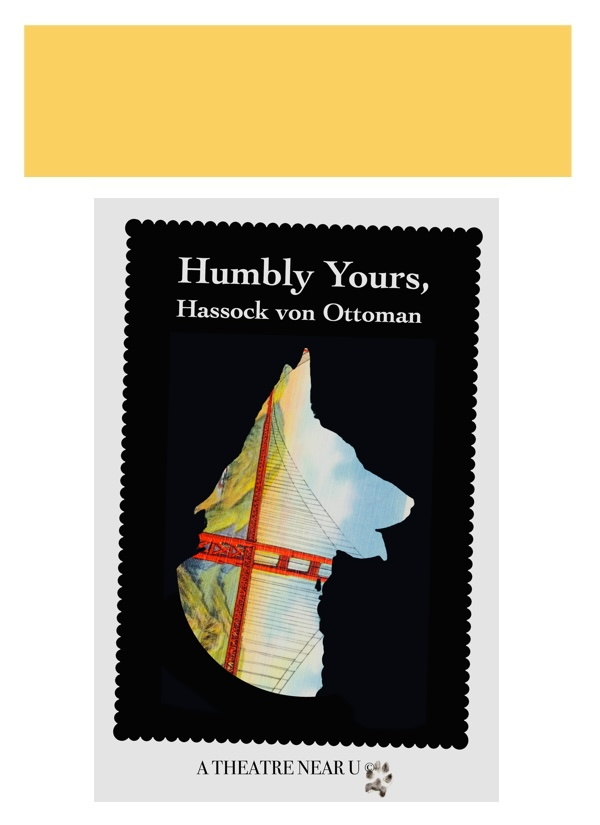
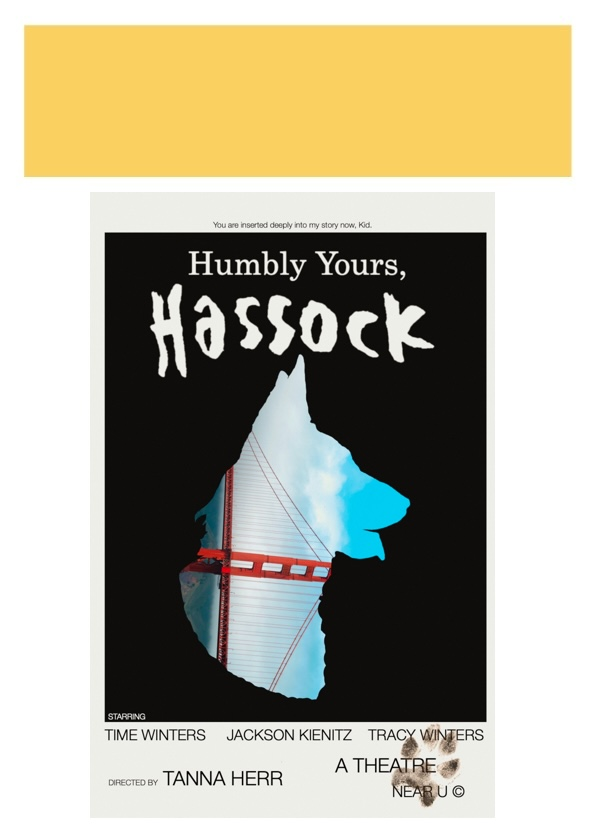
Tweak hassock details

Changed region(s): [[0.15, 0.2424, 0.84, 1.0]]

diff --git a/shows-upcoming.html b/shows-upcoming.html
@@ -67,7 +67,7 @@
                         </div>
                     </div>
                     <div class="page-content-review-item">
-                      <h3>Humbly Yours,<br> Hassock von Ottoman</h3>
+                      <h3>Humbly Yours, Hassock</h3>
                       <p>
                             <br>
                            <i>Directed by Tanna Herr
